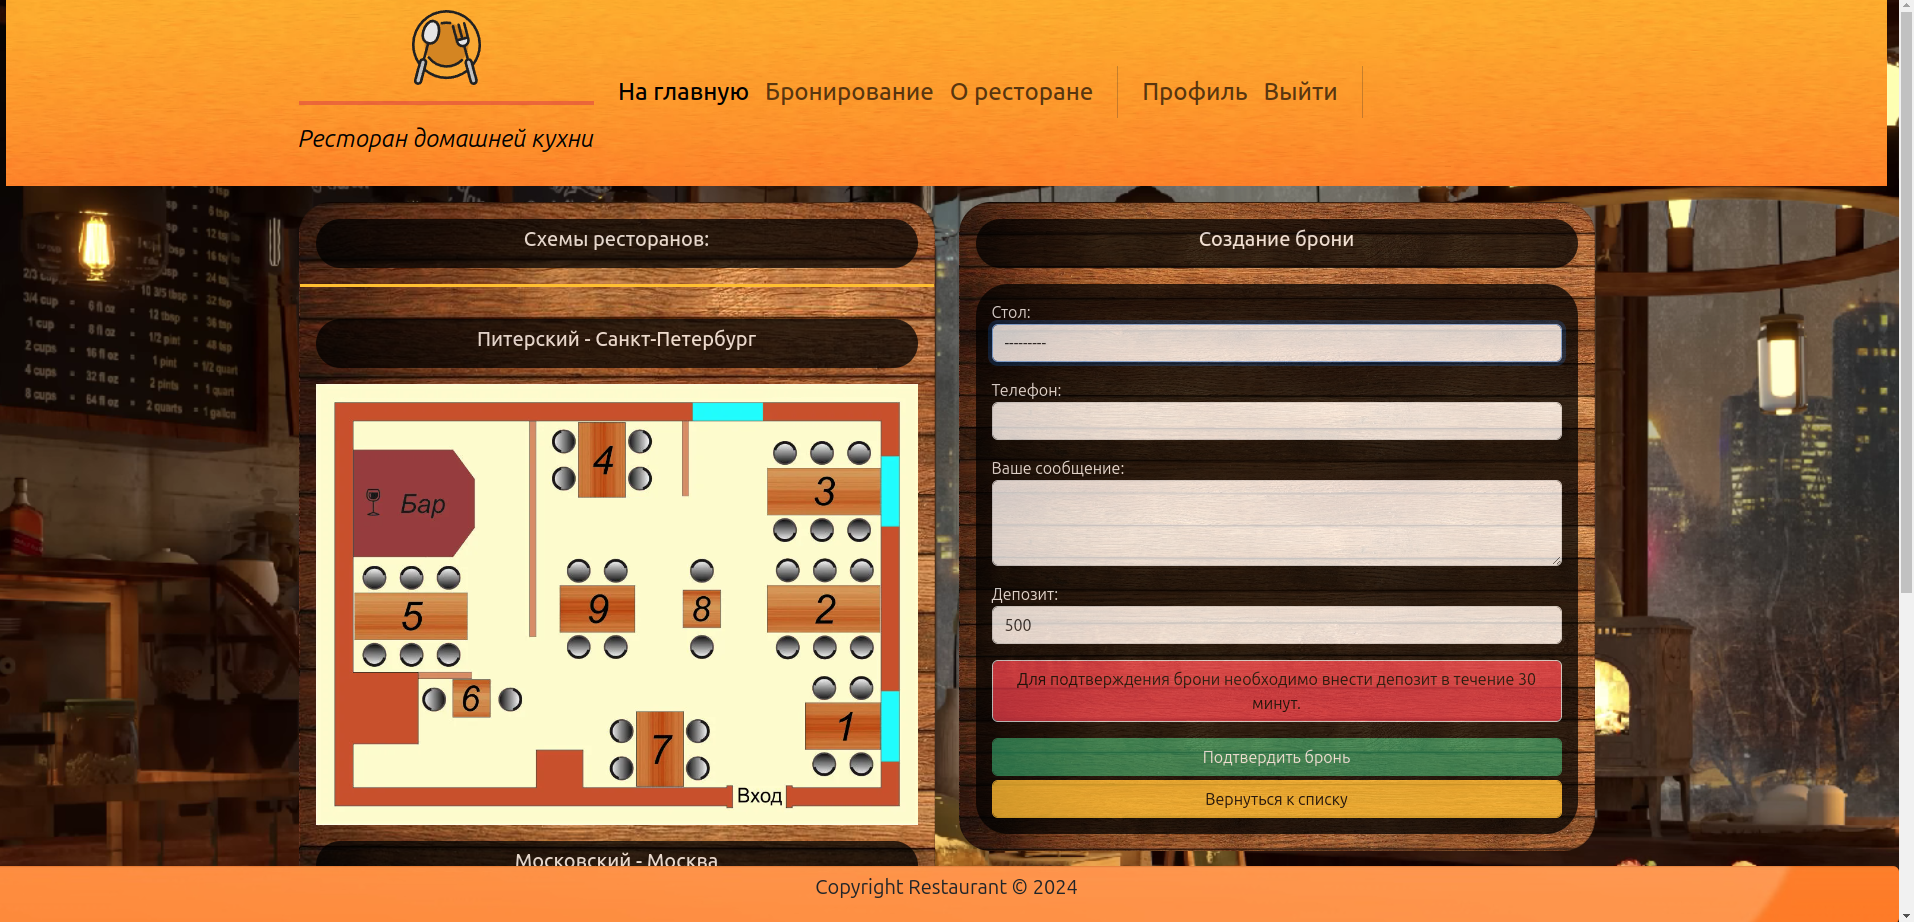
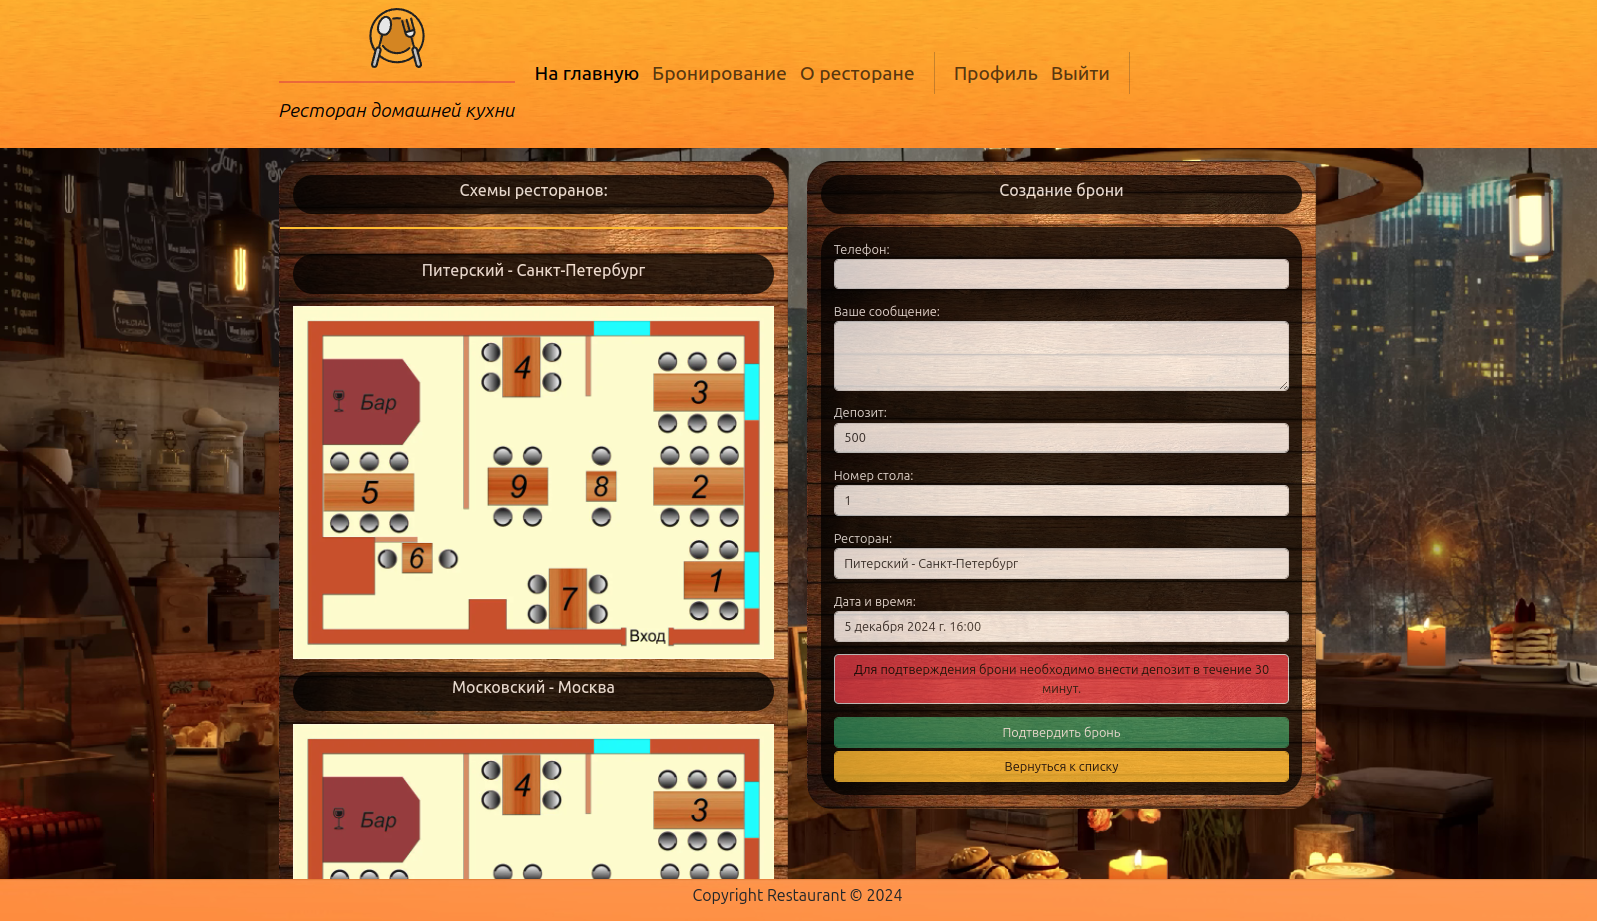
mini-fix

diff --git a/reservations/templates/reservations/reservation_form.html b/reservations/templates/reservations/reservation_form.html
@@ -17,14 +17,14 @@
                         <div class="card-header text-white bg-black opacity-75 rounded-5">
                         <h3 class="card-title text-center fs-5">{{ object.name }} - {{ object.city }}</h3>
                         </div>
-                        <img class="mt-3 mb-3" style="max-height:100%; max-width:100%;" src="{{ object.scheme_tables.url }}">
+                        <img class="mt-3 mb-3" style="min-height:100%; min-width:100%; max-height:100%; max-width:100%;" src="{{ object.scheme_tables.url }}">
                         {% else %}
                         {% endif %}
                         {% endfor %}
                     </div>
                 </div>
             </div>
-            <div class="col-sm-1 col-md-6">
+            <div class="col-xs-1 col-md-6">
                 <div class="bg-image card rounded-5"
                      style="background-image: url('{% static 'img/block.png' %}'); background-size: cover;">
                     <div class="mt-3 mx-3 card-header text-white bg-black opacity-75 rounded-5">

diff --git a/reservations/forms.py b/reservations/forms.py
@@ -1,5 +1,8 @@
+from datetime import timedelta
+
 from django import forms
 from django.core.exceptions import ValidationError
+from django.utils import timezone
 
 from reservations.models import Reservation, Table
 from restaurant.forms import StyleFormMixin
@@ -7,6 +10,8 @@ from restaurant.forms import StyleFormMixin
 
 class ReservationUpdateForm(StyleFormMixin, forms.ModelForm):
     """Форма для обновления резервирований"""
+
+    # Новые поля формы
     table_number = forms.ChoiceField(choices=None,
                                      label="Номер стола",
                                      initial=None)
@@ -21,6 +26,8 @@ class ReservationUpdateForm(StyleFormMixin, forms.ModelForm):
 
     def __init__(self, *args, **kwargs):
         super().__init__(*args, **kwargs)
+
+        # Импорт моделей после инициализации, избегаем ошибки при миграциях.
         from reservations.models import Table
         from restaurant.models import Restaurant
 
@@ -31,13 +38,21 @@ class ReservationUpdateForm(StyleFormMixin, forms.ModelForm):
                 attrs={"rows": "3", "class": "form-control"}))
         self.fields["comment"].label = "Ваше сообщение"
 
+        # за 15 минут до события столик становится недоступен для брони.
+        event_time = timezone.localtime(timezone.now()) + timedelta(minutes=15)
+
+        # Получаем queryset модели столов
+        tables = (Table.objects.all().filter(available=True).
+                  filter(is_datetime__gt=event_time))
+
+        # Присваиваем значения полям формы
         self.fields['table_number'].choices = \
             [(value, value) for value in
-             sorted(set(Table.objects.values_list('number', flat=True)))]
+             sorted(set(tables.values_list('number', flat=True)))]
         self.fields['table_restaurant'].queryset = Restaurant.objects.all()
         self.fields['table_is_datetime'].choices = \
             [(value, value) for value in
-             sorted(set(Table.objects.values_list('is_datetime', flat=True).
+             sorted(set(tables.values_list('is_datetime', flat=True).
                         filter(available=True)))]
 
     def save(self, commit=True):
@@ -115,6 +130,8 @@ class ReservationCreateForm(StyleFormMixin, forms.ModelForm):
 
     def __init__(self, *args, **kwargs):
         super().__init__(*args, **kwargs)
+
+        # Импорт моделей после инициализации, избегаем ошибки при миграциях.
         from reservations.models import Table
         from restaurant.models import Restaurant
 
@@ -125,13 +142,21 @@ class ReservationCreateForm(StyleFormMixin, forms.ModelForm):
                 attrs={"rows": "3", "class": "form-control"}))
         self.fields["comment"].label = "Ваше сообщение"
 
+        # за 15 минут до события столик становится недоступен для брони.
+        event_time = timezone.localtime(timezone.now()) + timedelta(minutes=15)
+
+        # Получаем queryset модели столов
+        tables = (Table.objects.all().filter(available=True).
+                  filter(is_datetime__gt=event_time))
+
+        # Присваиваем значения полям формы
         self.fields['table_number'].choices = \
             [(value, value) for value in
-             sorted(set(Table.objects.values_list('number', flat=True)))]
+             sorted(set(tables.values_list('number', flat=True)))]
         self.fields['table_restaurant'].queryset = Restaurant.objects.all()
         self.fields['table_is_datetime'].choices = \
             [(value, value) for value in
-             sorted(set(Table.objects.values_list('is_datetime', flat=True).
+             sorted(set(tables.values_list('is_datetime', flat=True).
                         filter(available=True)))]
 
     def save(self, commit=True):

diff --git a/README.md b/README.md
@@ -130,7 +130,7 @@
 
     Перед запуском необходимо:
         1) Установить docker следуя инструкции на сайте для своей ОС: https://www.docker.com/
-        2) .env.example переименовать в .env
+        2) example.env переименовать в .env
         3) Заполнить .env
         4) Запустить командой: "docker-compose up -d --build"
         5) Если .env заполнен верно - создадутся 5 объединённых контейнеров.
